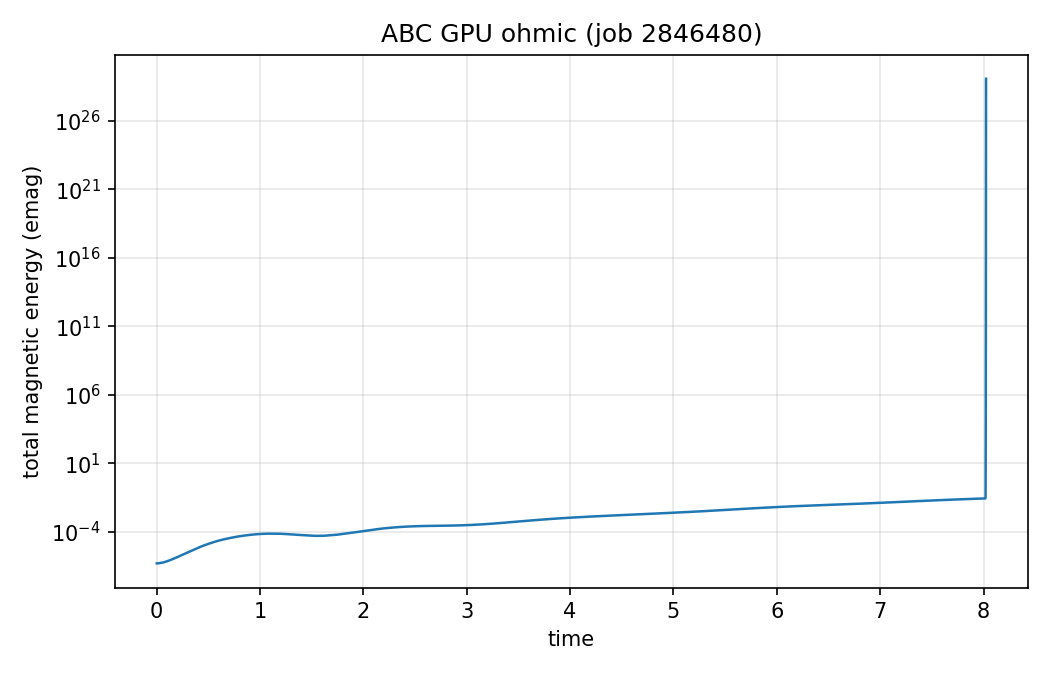
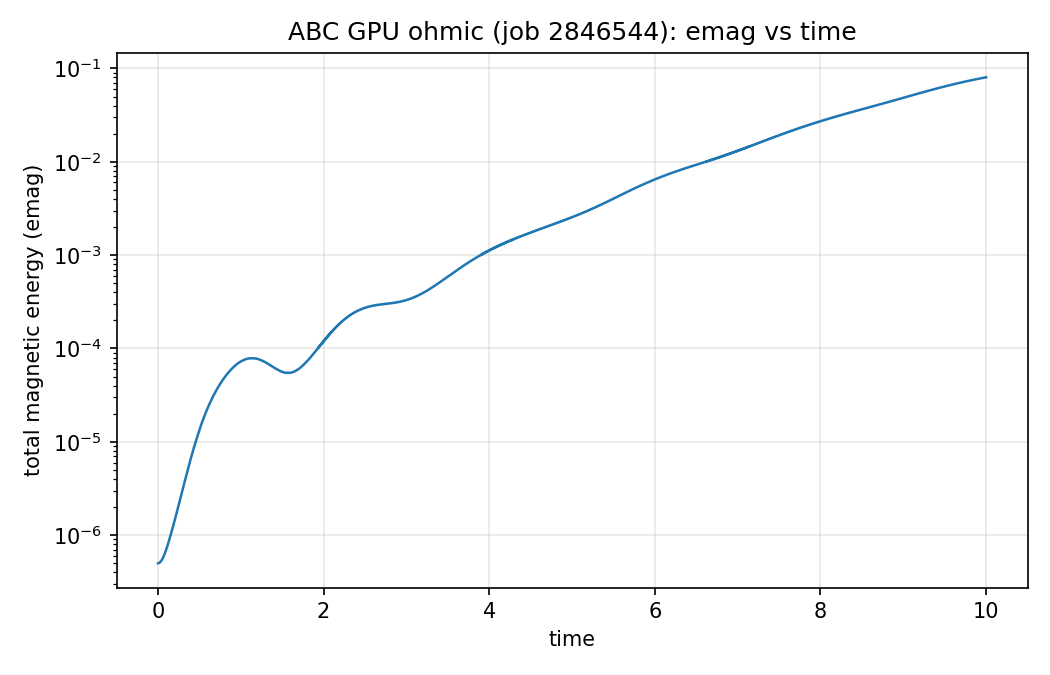
Add ABC magnetic energy plots from job 2846544.
Regenerate emag vs time and add x-z column-integrated B^2/2 map for the successful Stellar ABC GPU run.

diff --git a/scripts/plot_abc_bmag_xz.py b/scripts/plot_abc_bmag_xz.py
@@ -1,0 +1,164 @@
+#!/usr/bin/env python3
+"""Column-integrated magnetic energy density in the x-z plane (Blues map)."""
+
+from __future__ import annotations
+
+import argparse
+import os
+import re
+import sys
+from pathlib import Path
+
+import numpy as np
+
+OUTPUT_RE = re.compile(r"^output_(\d+)$")
+IVAR_BX, IVAR_BY, IVAR_BZ = 5, 6, 7
+
+
+def _import_miniramses():
+    _here = Path(__file__).resolve().parent
+    mini_root = Path(os.environ.get("MINIRAM", os.environ.get("MINI_RAMSES", _here.parent / "mini-ramses-dev")))
+    utils_py = mini_root / "utils" / "py"
+    sys.path.insert(0, str(utils_py if (utils_py / "miniramses.py").is_file() else mini_root))
+    import miniramses as ram
+
+    return ram
+
+
+def discover_output_nums(run_dir: Path) -> list[int]:
+    nums: list[int] = []
+    for entry in run_dir.iterdir():
+        if entry.is_dir() and (m := OUTPUT_RE.match(entry.name)):
+            nums.append(int(m.group(1)))
+    return sorted(nums)
+
+
+def pick_output_id(run_dir: Path, output_id: int | None) -> int:
+    nums = discover_output_nums(run_dir)
+    if not nums:
+        raise SystemExit(f"no output_NNNNN/ under {run_dir}")
+    if output_id is None:
+        return nums[-1]
+    if output_id not in nums:
+        raise SystemExit(f"output_{output_id:05d} not found; have {', '.join(f'{n:05d}' for n in nums)}")
+    return output_id
+
+
+def _amr2map_emag_column(
+    x: np.ndarray,
+    z: np.ndarray,
+    dx: np.ndarray,
+    level: np.ndarray,
+    emag: np.ndarray,
+    boxlen: float,
+    levelmin: int,
+    lmax: int,
+) -> np.ndarray:
+    maps: dict[int, np.ndarray] = {}
+    for lev in range(levelmin, lmax + 1):
+        maps[lev] = np.zeros((2**lev, 2**lev), dtype=np.float64)
+
+    lev = level.astype(np.int32, copy=False)
+    w = dx.copy()
+    valid = (lev >= levelmin) & (lev <= lmax) & (w > 0.0) & (emag > 0.0)
+    if not np.any(valid):
+        return np.zeros((2**lmax, 2**lmax), dtype=np.float64)
+
+    x_v = x[valid]
+    z_v = z[valid]
+    lev_v = lev[valid]
+    emag_v = emag[valid]
+    w_v = w[valid]
+
+    for ilev in range(levelmin, lmax + 1):
+        m = lev_v == ilev
+        if not np.any(m):
+            continue
+        n = 2**ilev
+        ix = np.clip(np.floor(x_v[m] / boxlen * n).astype(np.int32), 0, n - 1)
+        iy = np.clip(np.floor(z_v[m] / boxlen * n).astype(np.int32), 0, n - 1)
+        np.add.at(maps[ilev], (ix, iy), emag_v[m] * w_v[m])
+
+    ln = 2**lmax
+    out = maps[lmax].copy()
+    for ilevel in range(levelmin, lmax):
+        ndom = 2**ilevel
+        x_norm = (np.arange(ln) + 0.5) / ln
+        ic = np.clip((x_norm * ndom).astype(np.int32), 0, ndom - 1)
+        jc = np.clip((x_norm * ndom).astype(np.int32), 0, ndom - 1)
+        out += maps[ilevel][ic[:, None], jc[None, :]]
+    return out
+
+
+def emag_column_map(nout: int, run_dir: Path) -> tuple[np.ndarray, float, float, int]:
+    ram = _import_miniramses()
+    c = ram.rd_cell(nout, path=str(run_dir))
+    if c.nvar <= IVAR_BZ:
+        raise ValueError(f"Snapshot nvar={c.nvar}; expected MHD with B components")
+    inf = ram.rd_info(nout, path=str(run_dir))
+    bx, by, bz = c.u[IVAR_BX], c.u[IVAR_BY], c.u[IVAR_BZ]
+    emag = 0.5 * (bx * bx + by * by + bz * bz)
+
+    boxlen = float(inf.boxlen)
+    time = float(inf.time)
+    levelmin = int(inf.levelmin)
+    lmax = int(inf.nlevelmax)
+    if lmax <= 0:
+        lmax = int(np.max(c.level)) + 1
+
+    col = _amr2map_emag_column(
+        c.x[0], c.x[2], c.dx, c.level + 1, emag, boxlen, levelmin, lmax
+    )
+    return col, boxlen, time, lmax
+
+
+def main() -> int:
+    ap = argparse.ArgumentParser(description=__doc__)
+    ap.add_argument("--run-dir", type=Path, required=True)
+    ap.add_argument("--output-id", type=int, default=None)
+    ap.add_argument("--out", type=Path, default=None)
+    ap.add_argument("--cmap", default="Blues")
+    ap.add_argument("--log10", action="store_true", default=True)
+    ap.add_argument("--no-log10", action="store_false", dest="log10")
+    args = ap.parse_args()
+
+    run_dir = args.run_dir.resolve()
+    nout = pick_output_id(run_dir, args.output_id)
+    col, boxlen, time, lmax = emag_column_map(nout, run_dir)
+
+    out = args.out or (run_dir / f"abc_bmag_xz_{nout:05d}.png")
+    display = np.log10(np.where(col > 0.0, col, np.nan)) if args.log10 else col
+    pos = display[np.isfinite(display)]
+    vmin = float(np.min(pos)) if pos.size else 0.0
+    vmax = float(np.max(pos)) if pos.size else 1.0
+
+    import matplotlib
+
+    matplotlib.use("Agg")
+    import matplotlib.pyplot as plt
+
+    fig, ax = plt.subplots(figsize=(7.0, 6.0), constrained_layout=True)
+    im = ax.imshow(
+        display.T,
+        origin="lower",
+        extent=(0.0, boxlen, 0.0, boxlen),
+        aspect="equal",
+        cmap=args.cmap,
+        vmin=vmin,
+        vmax=vmax,
+        interpolation="nearest",
+    )
+    ax.set_xlabel("x [code length]")
+    ax.set_ylabel("z [code length]")
+    ax.set_title(f"ABC column magnetic energy (output {nout:05d}, t={time:.4f})")
+    cb = fig.colorbar(im, ax=ax, shrink=0.85)
+    cb.set_label(r"$\log_{10}\,\int (B^2/2)\,dy$" if args.log10 else r"$\int (B^2/2)\,dy$")
+    out.parent.mkdir(parents=True, exist_ok=True)
+    fig.savefig(out, dpi=150)
+    plt.close(fig)
+    print(f"wrote {out} (t={time:.6f}, lmax={lmax}, map {col.shape[0]}x{col.shape[1]})")
+    return 0
+
+
+if __name__ == "__main__":
+    raise SystemExit(main())
